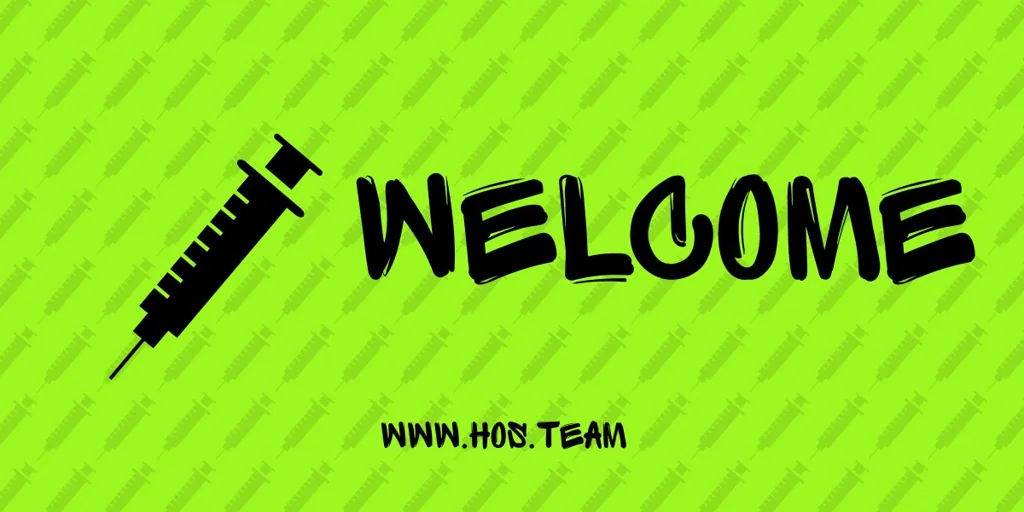
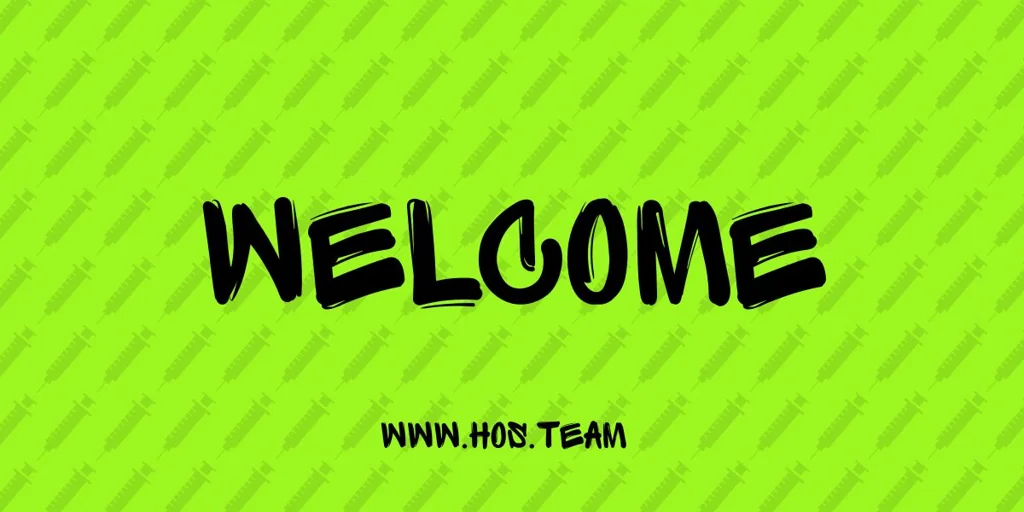
chore: update welcome post image, layout fix

Changed region(s): [[0.0938, 0.25, 0.9688, 0.75]]

diff --git a/_posts/2025-08-14-why-jekyll-chirpy-and-github.md b/_posts/2025-08-14-why-jekyll-chirpy-and-github.md
@@ -10,7 +10,7 @@ math: true
 mermaid: true
 image:
   path: /assets/img/bsec/welcome.webp
-  alt: Chirpy theme preview on multiple devices
+  alt: Welcome image banner
 ---
 
 > TL;DR — Jekyll + Chirpy gives us a **secure, static, fast** site where **every post is just Markdown** (so your content is truly yours). We keep it on **GitHub** so the repository stays **public** and every change is tied to your GitHub identity for **visibility** and a clean contribution history.
@@ -39,7 +39,7 @@ Chirpy adds a polished UX and a bunch of batteries-included features without com
 
 ## How to add a new post
 
-1) **Create a branch**
+1. **Create a branch**
 
 ```bash
 git checkout -b post/your-title
@@ -52,17 +52,25 @@ To show proper bylines and optional avatars/links, add your author entry in `_da
 The **key** should be your handle (and must match the `author` value in each post’s front matter).
 
 ```yaml
+## Template › https://github.com/jekyll/jekyll-seo-tag/blob/master/docs/advanced-usage.md#setting-author-url
+# -------------------------------------
+# {author_id}:
+#   name: {full name}
+#   twitter: {twitter_of_author}
+#   url: {homepage_of_author}
+# -------------------------------------
+
 bsec:
-  name: "Guilherme A."
-  bio: "Peel back the layers. See what they missed."
-  avatar: /assets/img/authors/bsec.jpg  # optional
-  url: https://behindsecurity.com       # optional
+  name: Guilherme A.
+  url: https://behindsecurity.com/about/
+
+# More authors....
 ````
 
 * Put avatar images in `assets/img/authors/` (e.g., `assets/img/authors/bsec.jpg`).
 * In your post front matter use `author: bsec` (the key above).
 
-2. **Add a Markdown file under `_posts/`**
+3. **Add a Markdown file under `_posts/`**
 
 File name format is:
 
@@ -76,7 +84,7 @@ Example:
 _posts/2019-08-09-getting-started.md
 ```
 
-3. **Use this front matter header**
+4. **Use this front matter header**
 
 ```yaml
 ---
@@ -103,7 +111,7 @@ image:
 * **`math` / `mermaid`**: Enable LaTeX and Mermaid as needed.
 * **`image.path`**: Lead image shown in previews and at the top. **Recommended: 1200 × 630 px**
 
-4. **Add images to** `assets/img/<your-author-name>/`
+5. **Add images to** `assets/img/<your-author-name>/`
 
 ```
 assets/
@@ -118,7 +126,7 @@ Reference them in front matter as above, or in the body:
 ![Diagram alt text](/assets/img/<your-author-name>/your-image.webp)
 ```
 
-5. **Write your content in Markdown**
+6. **Write your content in Markdown**
 
 Use headings, code blocks, lists, and optional extras:
 
@@ -137,7 +145,7 @@ Use headings, code blocks, lists, and optional extras:
     C --> D[Publish]
   ```
 
-6. **Commit and push**
+7. **Commit and push**
 
 ```bash
 git add _posts/2025-08-14-why-jekyll-chirpy-and-github.md assets/img/<your-author-name>/your-image.webp
@@ -145,7 +153,7 @@ git commit -m "Add post: Why we use Jekyll + Chirpy (and GitHub)"
 git push -u origin post/your-title
 ```
 
-7. **Open a Pull Request to `main`**
+8. **Open a Pull Request to `main`**
 
 * We work with **branches and PRs**. Submit your PR, it'll be reviewed and merged when it’s approved.
 * After merge, the site will rebuild and your post will be live.
